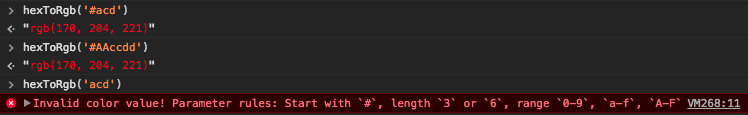
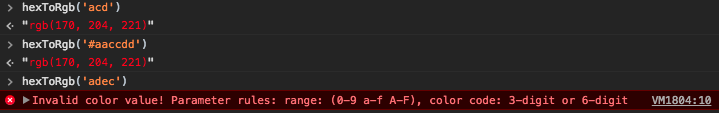
rgbToHex, objHas

diff --git a/README.md b/README.md
@@ -2,45 +2,56 @@
 
 ## Table of Contents
 
-* [`HexToRgb`](#hextorgb)
-* [`Checks Argument Type`](#checksargumenttype)
+* [`Color Converts`](#color-converts)
+    > `hexToRgb()`, `rgbToHex()`
+* [`Checks Argument Type`](#checks-argument-type)
     > `isObj()`, `isArray()`, `isFunc()`, `isBool()`, `isRegExp()`
-* [`StrToBool`](#strtobool)
-* [`Set/Get localStorage`](#setorgetlocalstorage)
+* [`String To Boolean`](#string-to-boolean)
+* [`Set/Get localStorage`](#set-or-get-localstorage)
     > `setStorage()`, `getStorage()`
-* [`Set/Get Cookie`](#setorgetcookie)
+* [`Set/Get Cookie`](#set-or-get-cookie)
     > `setCookie()`, `getCookie()`
+* [`Object Has`](#object-has)
 
 ## Methods
 
-### HexToRGB
+### Color Converts
 
-> Converts a hex color to a `rgb()` string.
+> `Hex color` <=> `RGB`
 
 ```js
 const hexToRgb = hex => {
-    let len = hex.length
-    if(/^#[A-Fa-f0-9]{3}|[A-Fa-f0-9]{6}$/.test(hex) && (len === 4 || len === 7)) {
-        let h = parseInt(
-            hex.length === 4
-                ? Array.prototype.map.call(hex.slice(1), i => i+i).join('')
-                : hex.slice(1)
-        , 16)
-        return `rgb(${h >> 16}, ${(h & 0x00ff00) >> 8}, ${h & 0x0000ff})`
+    let _hex = /^#/.test(hex) ? hex.slice(1) : hex
+    if(/^(3|6)$/.test(_hex.length)) {
+        let h = parseInt(_hex.length === 3
+            ? [..._hex].map(i => i + i).join('')
+            : _hex, 16)
+        return  `rgb(${h >> 16}, ${(h & 0x00ff00) >> 8}, ${h & 0x0000ff})`
     } else {
-        console.error('Invalid color value! Parameter rules: Start with `#`, length `3` or `6`, range `0-9`, `a-f`, `A-F`')
+        console.error('Invalid color value! Parameter rules: range: (0-9 a-f A-F), color code: 3-digit or 6-digit')
     }
 }
-// hexToRgb('#acd') => "rgb(170, 204, 221)"
-// hexToRgb('#AAccdd') => "rgb(170, 204, 221)"
-// hexToRgb('acd') => 'Invalid color value! ...'
+// hexToRgb('acd') => "rgb(170, 204, 221)"
+// hexToRgb('#aaccdd') => "rgb(170, 204, 221)"
+// hexToRgb('adec') => 'Invalid color value! ...'
+
+const rgbToHex = (r, g, b) => {
+    const isRange = val => 0 <= val && val <= 255
+    return isRange(r) && isRange(g) && isRange(b)
+        ? '#' + ((r << 16) + (g << 8) + b).toString(16).padStart(6, '0')
+        : console.error('Invalid color value! Parameter rules: value range: (0-255)')
+}
+// rgbToHex(0, 0, 0)
+// rgbToHex(240, 167, 3)
+// rgbToHex(255, 255, 255)
 ```
 
 ![hexToRgb console error](./img/js/hextorgb.png)
+![rgbToHex console error](./img/js/rgbtohex.png)
 
 [☝ Back To TOP](#table-of-contents)
 
-### ChecksArgumentType
+### Checks Argument Type
 
 > Checks if the given argument type.
 
@@ -55,7 +66,7 @@ const isRegExp = val => is(val) === '[object RegExp]'
 
 [☝ Back To TOP](#table-of-contents)
 
-### StrToBool
+### String To Boolean
 
 > Converts a string to boolean.
 
@@ -65,9 +76,9 @@ const toBool = val => /^true$/i.test(str)
 
 [☝ Back To TOP](#table-of-contents)
 
-### SetOrGetLocalStorage
+### Set Or Get LocalStorage
 
-> Set/Get localStorage, using methods: [`isObj()`, `isArray()`](#checksargumenttype), [`toBool()`](#strtobool)
+> Set/Get localStorage, using methods: [`isObj()`, `isArray()`](#checks-argument-type), [`toBool()`](#string-to-boolean)
 
 ```js
 // Set localStorage
@@ -96,7 +107,7 @@ const getStorage = key => {
 
 [☝ Back To TOP](#table-of-contents)
 
-### SetOrGetCookie
+### Set Or Get Cookie
 
 > Set/Get Cookie
 
@@ -112,6 +123,18 @@ const getCookie = key => {
             ? _v.substr(`${key}=`.length, _v.length) : void 0
     }).join('')
 }
+```
+
+[☝ Back To TOP](#table-of-contents)
+
+---
+
+### Object Has
+
+> Checks if `key` is a direct property of `object`.
+
+```js
+const objHas = (obj, key) => obj !== null && Object.prototype.hasOwnProperty.call(obj, key)
 ```
 
 [☝ Back To TOP](#table-of-contents)
